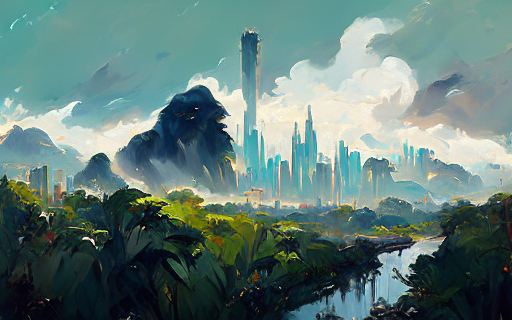
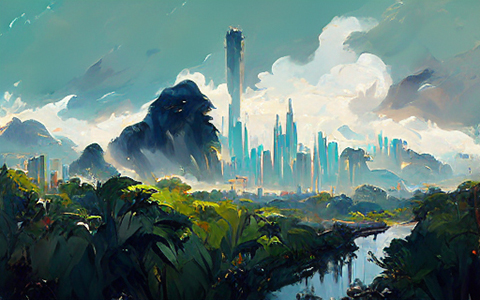
Ardor illus

diff --git a/jars/src/data/scripts/world/tahlan_Spindle.java b/jars/src/data/scripts/world/tahlan_Spindle.java
@@ -240,6 +240,7 @@ public class tahlan_Spindle {
                 510);
 
         spindle_5.setCustomDescriptionId("tahlan_planet_ardor");
+        spindle_5.setInteractionImage("illustrations","tahlan_ardor_illus");
 
         MarketAPI spindle_5_market = addMarketplace(Factions.PIRATES, spindle_5, null,
                 "Ardor",
